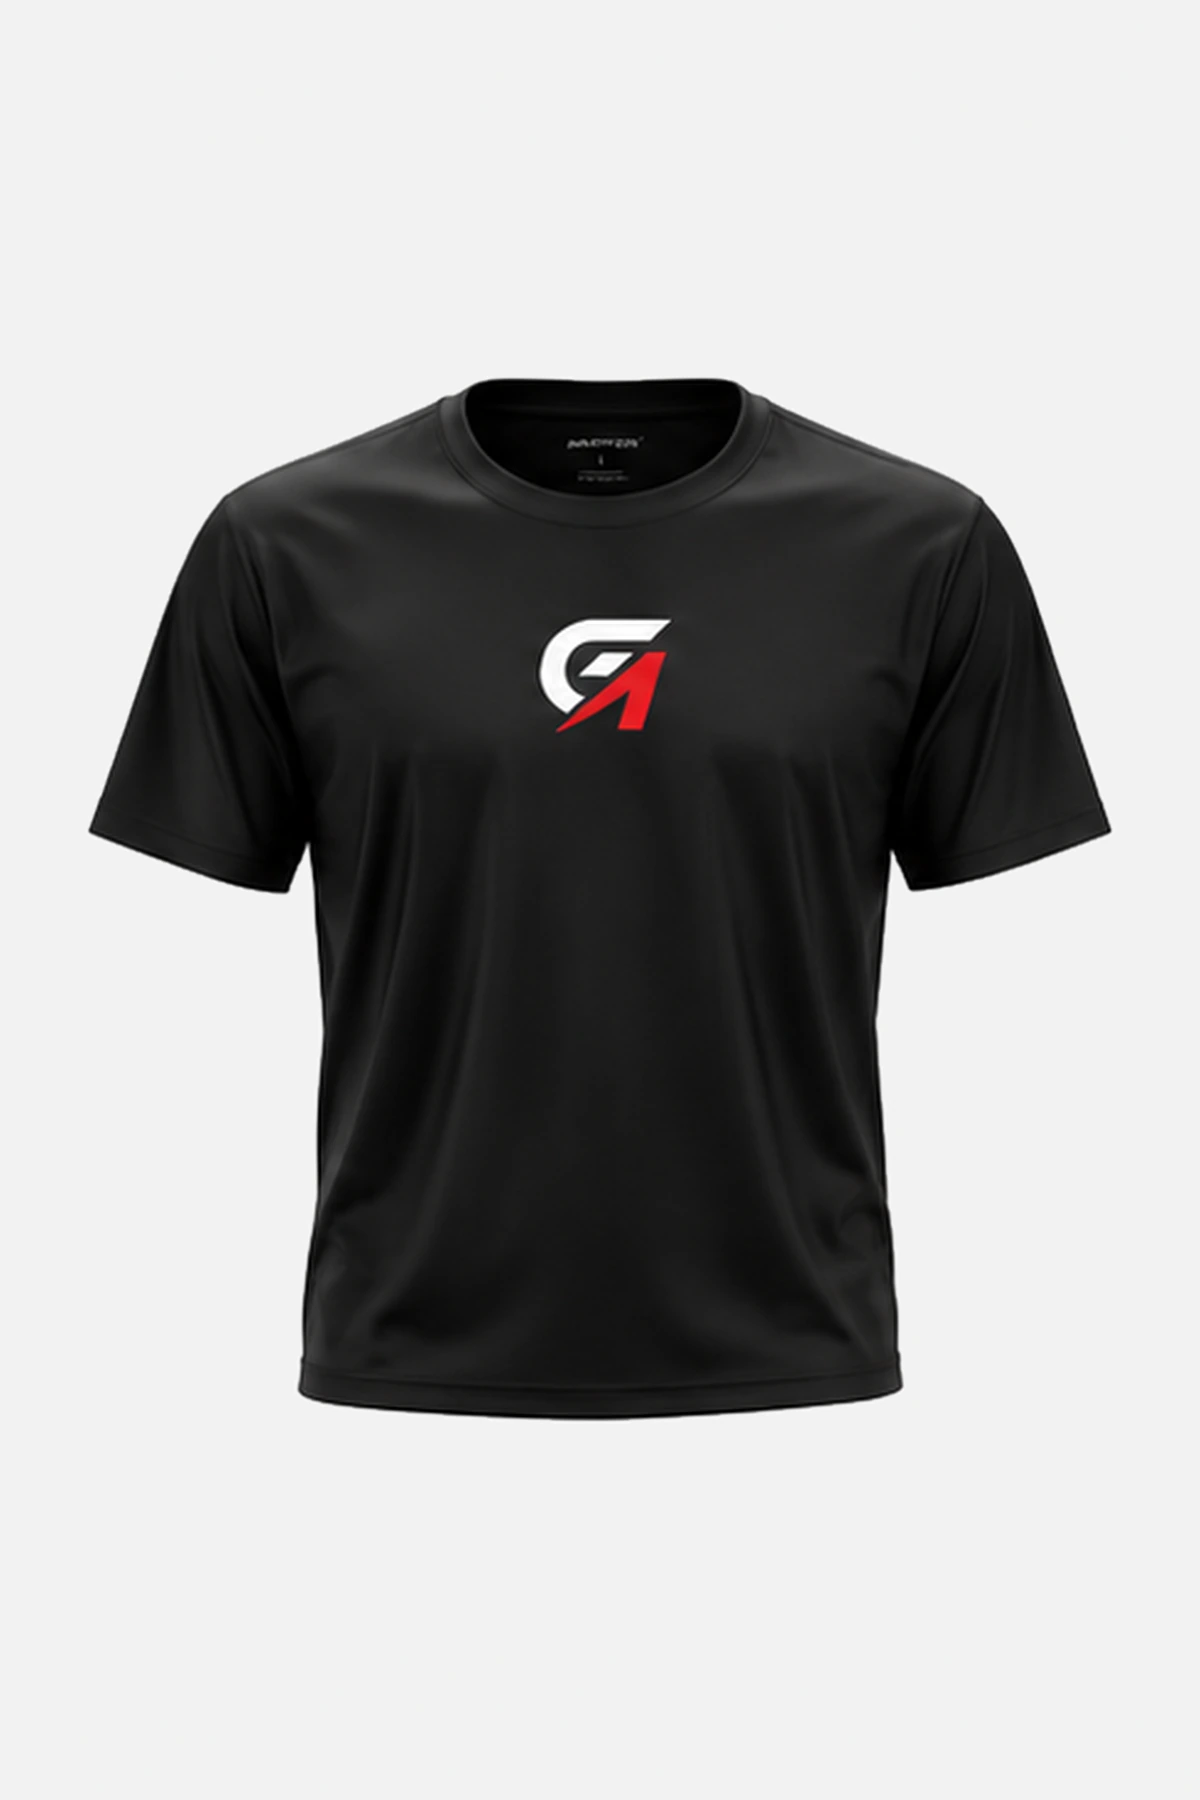
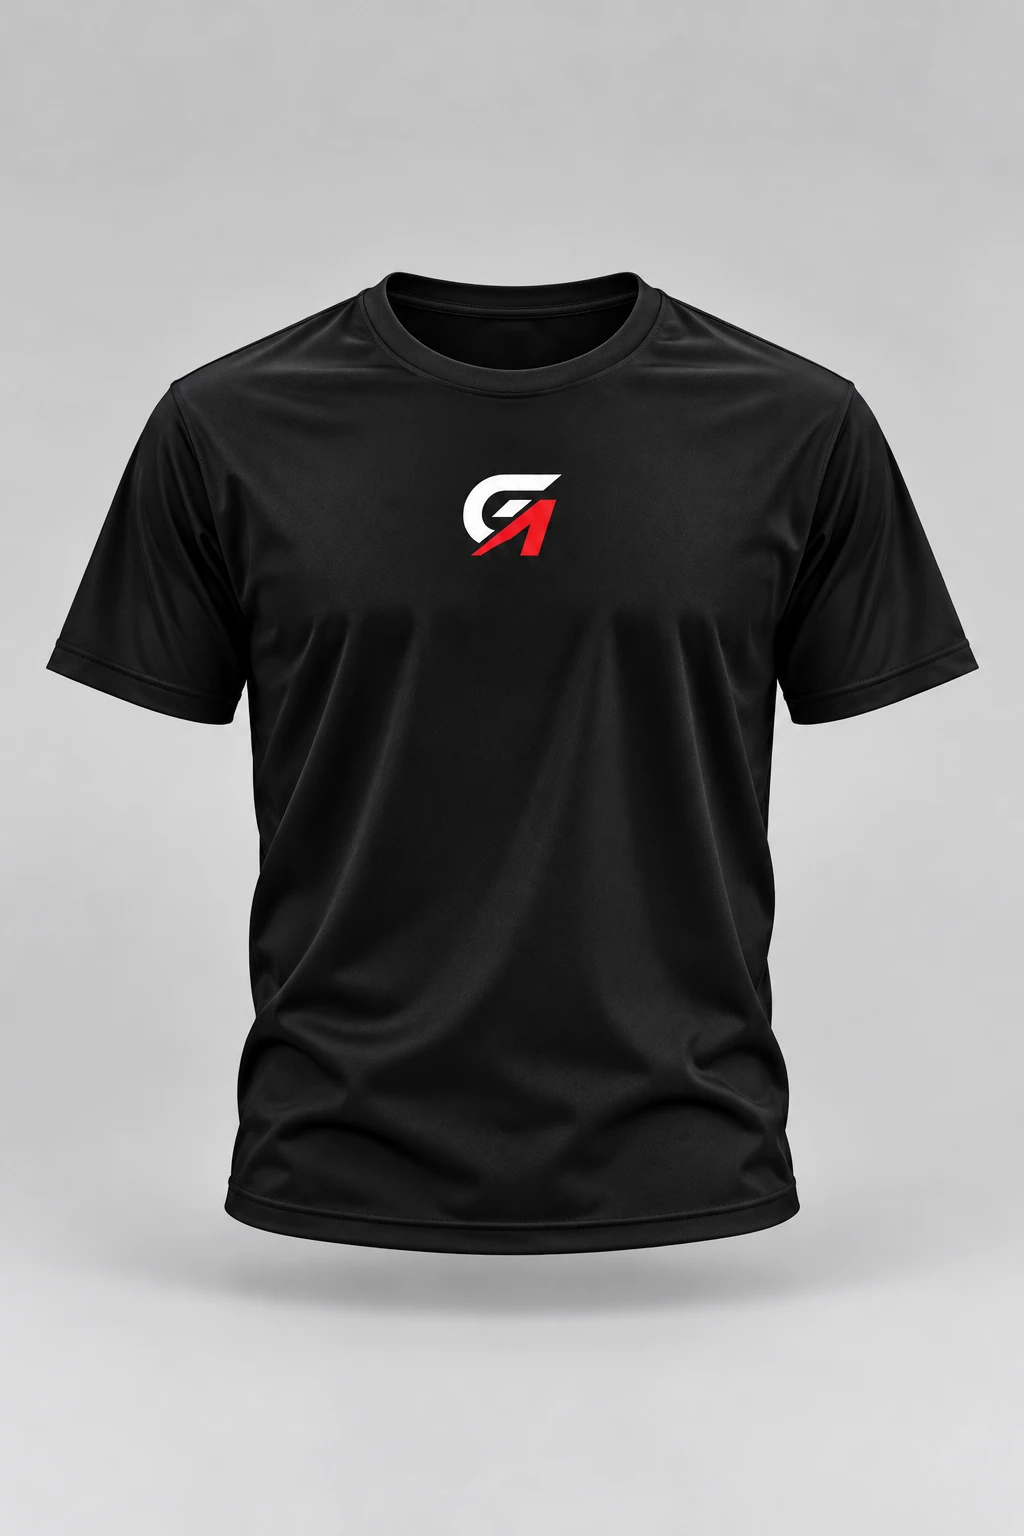
Replace the Black GA Minimal Tee product front
Owner instruction on 2026-10-22, after the first set had gone live: the
1200 x 1500 front on flat #F2F2F2 gives way to a 1024 x 1536 shot on the
same soft grey studio backdrop as the True Royal and True Red sets, which
also brings its thumbnail in line with the model photos. It is already
2:3, so it is deployed byte-for-byte with no re-encode. The first
original is kept in the designs record as SUPERSEDED; checksums updated
in docs/catalog/ga-minimal-tee-black-product-20261022.json.

The path is reused and had been published (it is also the collection
card and the welcome email image), so product-image.ts tags it with
revision black-front-v2-20261022.

Verified: tsc clean; on a fresh dev server the tagged URL serves the new
source (1024 x 1536 at w=1080), the gallery opens on it and the shop card
carries the tag.

Claude-Session: https://claude.ai/code/session_01C3SU2v6BEZ4vVY2to31FRS

diff --git a/src/lib/product-image.ts b/src/lib/product-image.ts
@@ -10,13 +10,14 @@ export function catalogImageSrc(src: string): string {
   const studioPath = studioPaths.get(url.pathname);
   if (studioPath) url.pathname = studioPath;
   const isRevisedBack = /^\/products\/GOOOL_MODERN_PERFORMANCE_(?:ROYAL_|WHITE_)?BACK_DETAIL_V6\.png$/.test(url.pathname);
-  // The True Royal Minimal Tee product shots were replaced at their paths
-  // later on 2026-10-22 (the back for white lettering, the front after it
-  // had gone live); the tags keep every image cache from serving the first
-  // files.
+  // Minimal Tee product shots replaced at their paths later on 2026-10-22
+  // (the True Royal back for white lettering; the True Royal and Black
+  // fronts after they had gone live); the tags keep every image cache
+  // from serving the first files.
   const replaced: Record<string, string> = {
     "/products/goal-ga-minimal-true-royal-catalog-product-back-20261022.webp": "true-royal-back-white-20261022",
     "/products/goal-ga-minimal-true-royal-catalog-product-front-20261022.webp": "true-royal-front-v2-20261022",
+    "/products/goal-ga-minimal-black-catalog-product-front-20261022.webp": "black-front-v2-20261022",
   };
   const revision = replaced[url.pathname]
     ? replaced[url.pathname]

diff --git a/designs/53_ga-minimal-tee-black-product-shots-2026-10-22/README.md b/designs/53_ga-minimal-tee-black-product-shots-2026-10-22/README.md
@@ -18,7 +18,7 @@ backdrop extended 150 px above and below to the 2:3 frame with
 
 | View | Received | Deployed |
 |---|---|---|
-| product-front | 1200 x 1500 | `goal-ga-minimal-black-catalog-product-front-20261022.webp`, 1200 x 1800 |
+| product-front | 1024 x 1536 | `goal-ga-minimal-black-catalog-product-front-20261022.webp`, 1024 x 1536 (already 2:3, deployed byte-for-byte; replaced later the same day) |
 | product-back | 1200 x 1500 | `goal-ga-minimal-black-catalog-product-back-20261022.webp`, 1200 x 1800 |
 
 The Apliiq renders `goal-ga-minimal-tee-black-front.webp` and `-back.webp`
@@ -26,6 +26,13 @@ left `public/products/` and are kept in `retired-render/`. The other
 colourways' renders stay. Checksums and sizes:
 `docs/catalog/ga-minimal-tee-black-product-20261022.json`.
 
-Note the backdrop: #F2F2F2, lighter than the studio grey of the model
-photos. The gallery frame shows each photo edge to edge, so the two sit
-side by side in the thumbnails with different greys.
+The front was replaced after the first set had gone live on 2026-10-22:
+the 1200 x 1500 shot on flat #F2F2F2 gave way to a 1024 x 1536 shot on the
+same soft grey studio backdrop as the True Royal and True Red sets. The
+first is kept as `as-received/black-product-front-SUPERSEDED-F2F2F2-as-received.png`;
+the path is reused with revision tag `black-front-v2-20261022` in
+`src/lib/product-image.ts`, because the first file had been published.
+
+Note the backdrop of the back: still flat #F2F2F2, lighter than the
+studio grey of the front and the model photos, so its thumbnail sits
+paler than the others.

diff --git a/designs/00_asset-library/MODEL-PHOTO-FRAME-STANDARD.md b/designs/00_asset-library/MODEL-PHOTO-FRAME-STANDARD.md
@@ -85,7 +85,7 @@ photos are uploaded.
 | Stacked Stadium Cap Royal · model front, three-quarter, side | 763 x 505/512 (landscape) | 480 x 720, sides trimmed to 480, extended 210-218 px above the head (joins 0.0, 0.07, 0.0) |
 | Stacked Stadium Cap Red · product front | 764 x 510 (landscape) | 600 x 900, sides trimmed to 600, extended 196 px above and below (joins 0.18 and 0.09) |
 | Stacked Stadium Cap Red · model front, three-quarter, side | 764 x 506/510 (landscape) | 480 x 720, sides trimmed to 480, extended 211-218 px above the head (joins 0.0, 0.0, 0.42) |
-| GA Minimal Tee Black · product front, back | 1200 x 1500 (4:5, flat #F2F2F2) | 1200 x 1800, backdrop extended 150 px above and below (joins 0.00) |
+| GA Minimal Tee Black · product front, back | 1024 x 1536 (soft grey; replaced later the same day), 1200 x 1500 (4:5, flat #F2F2F2) | 1024 x 1536 unchanged (already 2:3); 1200 x 1800, backdrop extended 150 px above and below (joins 0.00) |
 | GA Minimal Tee True Royal · product front, back | 1024 x 1536, 1122 x 1402 (soft grey backdrop; both replaced later the same day) | 1024 x 1536 unchanged (already 2:3); 1122 x 1683, backdrop extended above and below (joins 0.50 and 0.00) |
 | GA Minimal Tee True Red · product front, back | 1122 x 1402 (soft grey backdrop) | 1122 x 1683, backdrop extended 140/141 px above and below (joins 0.00, 0.30) |
 
